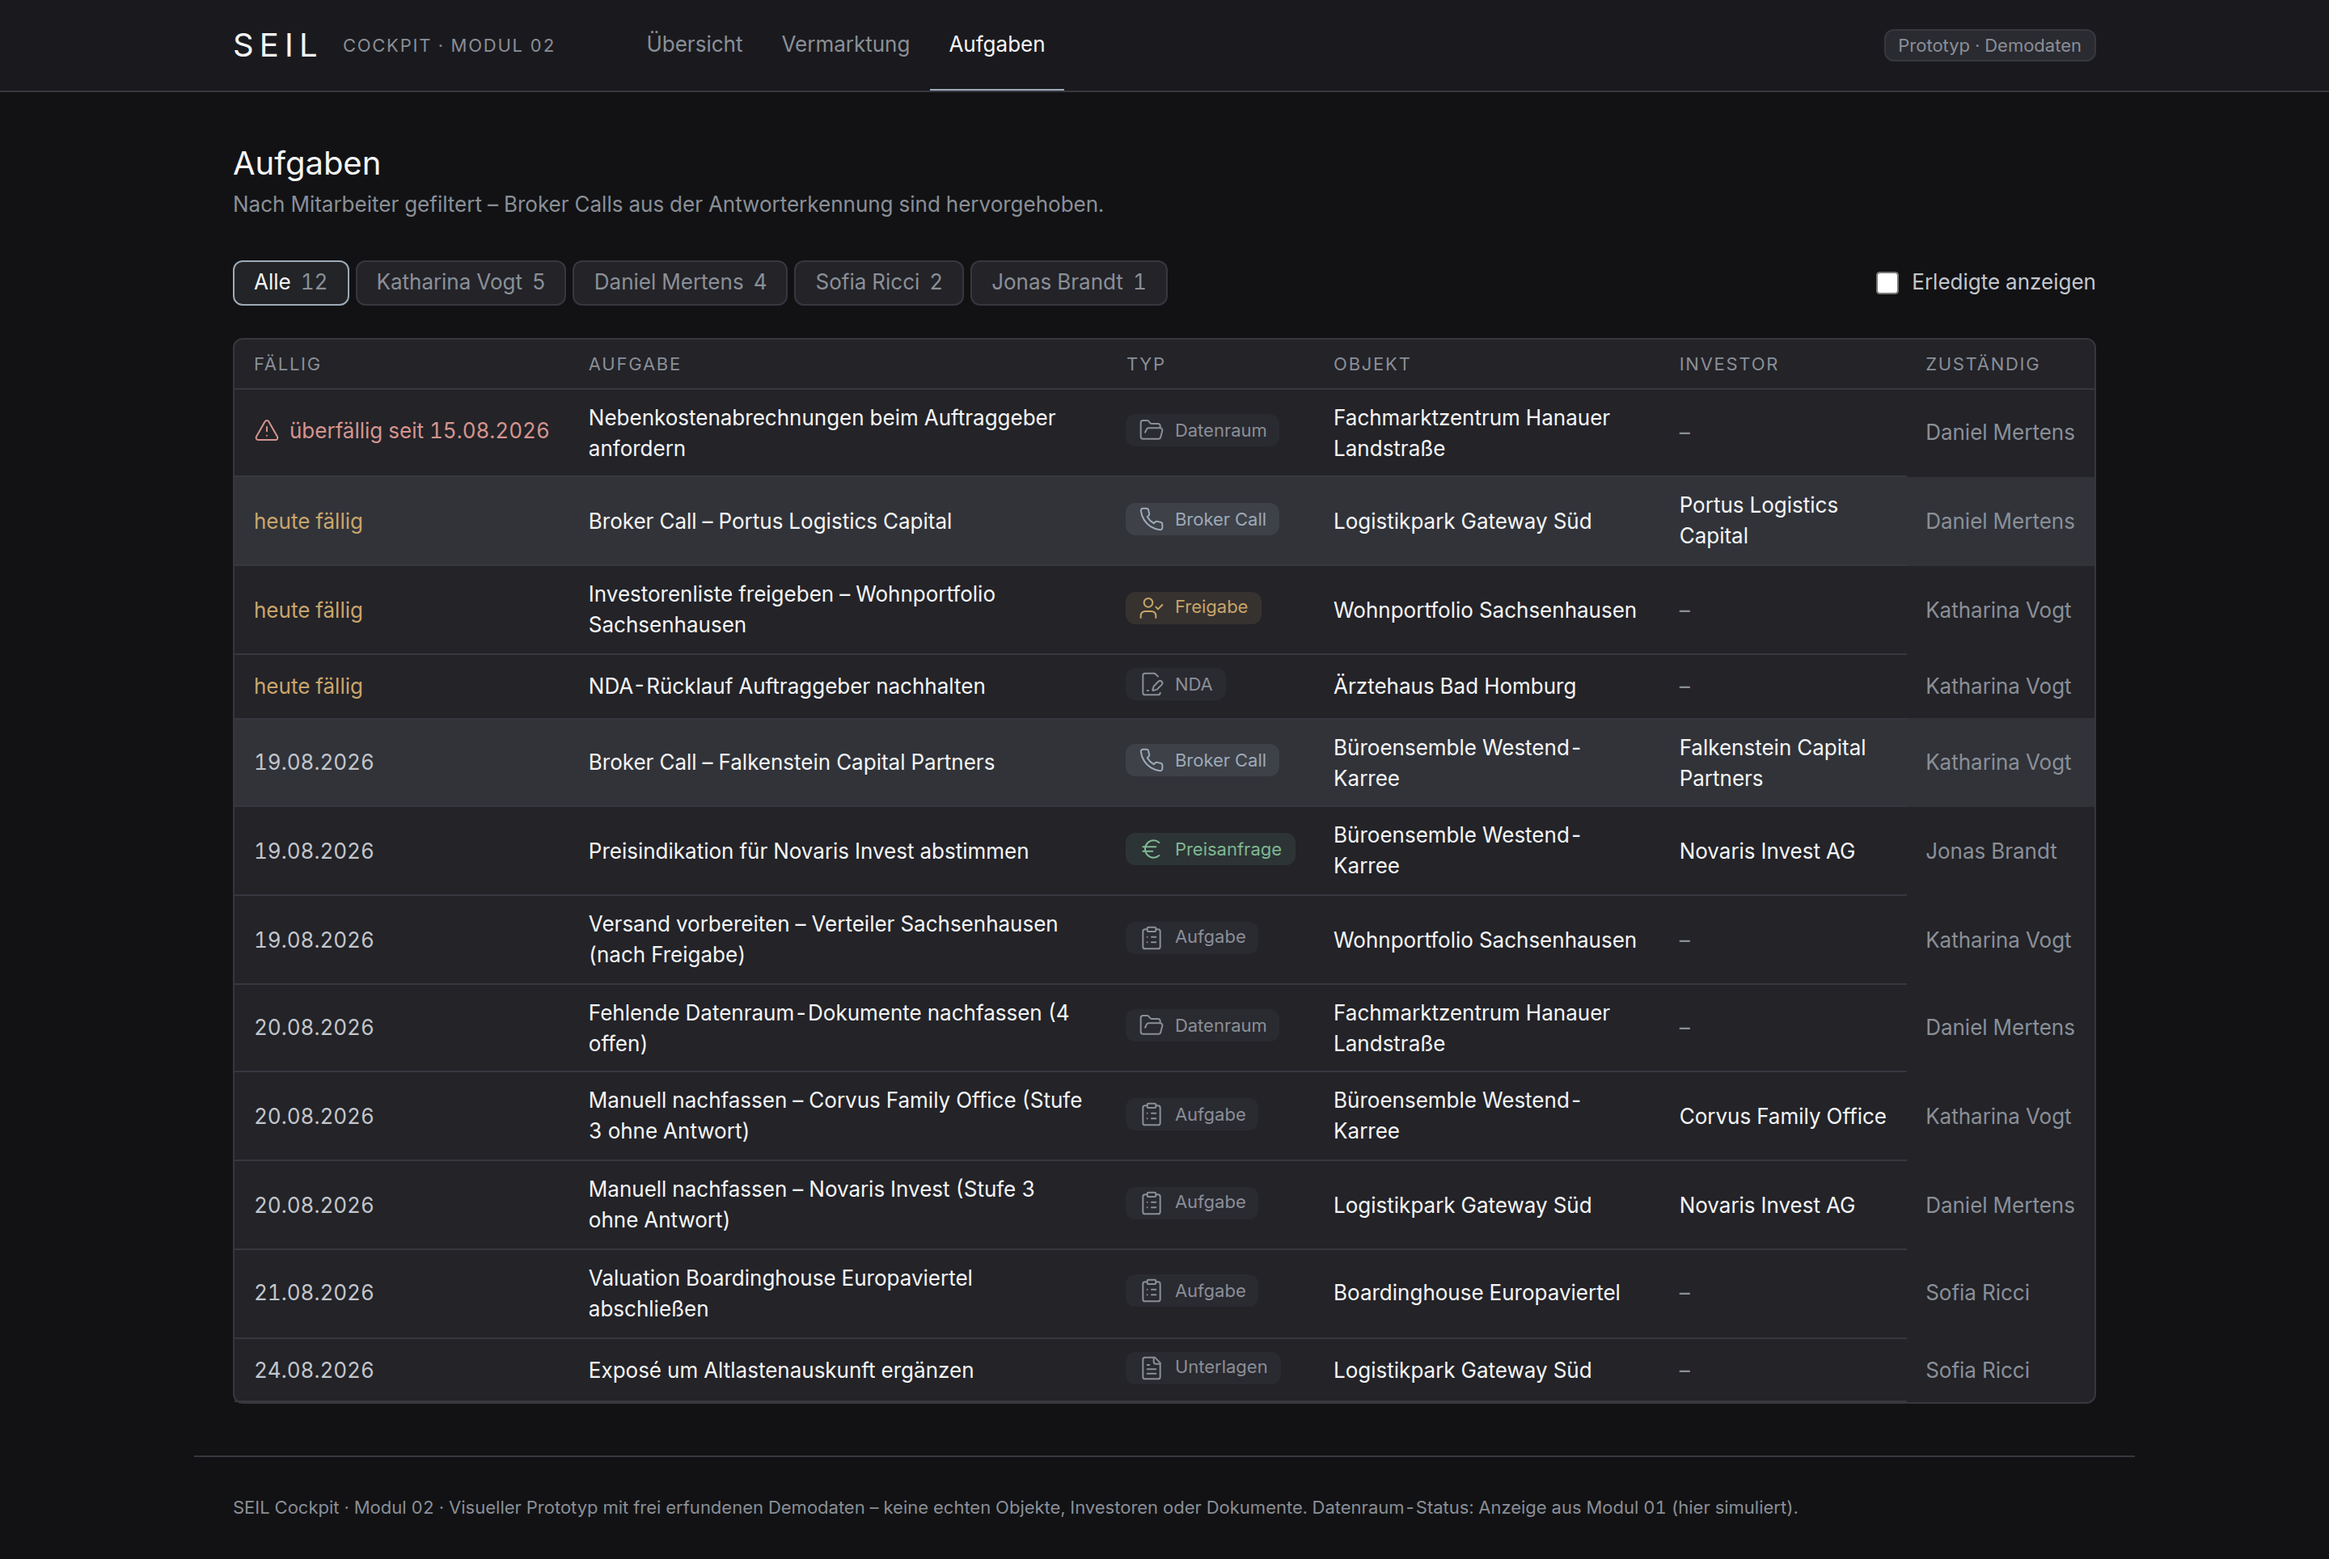
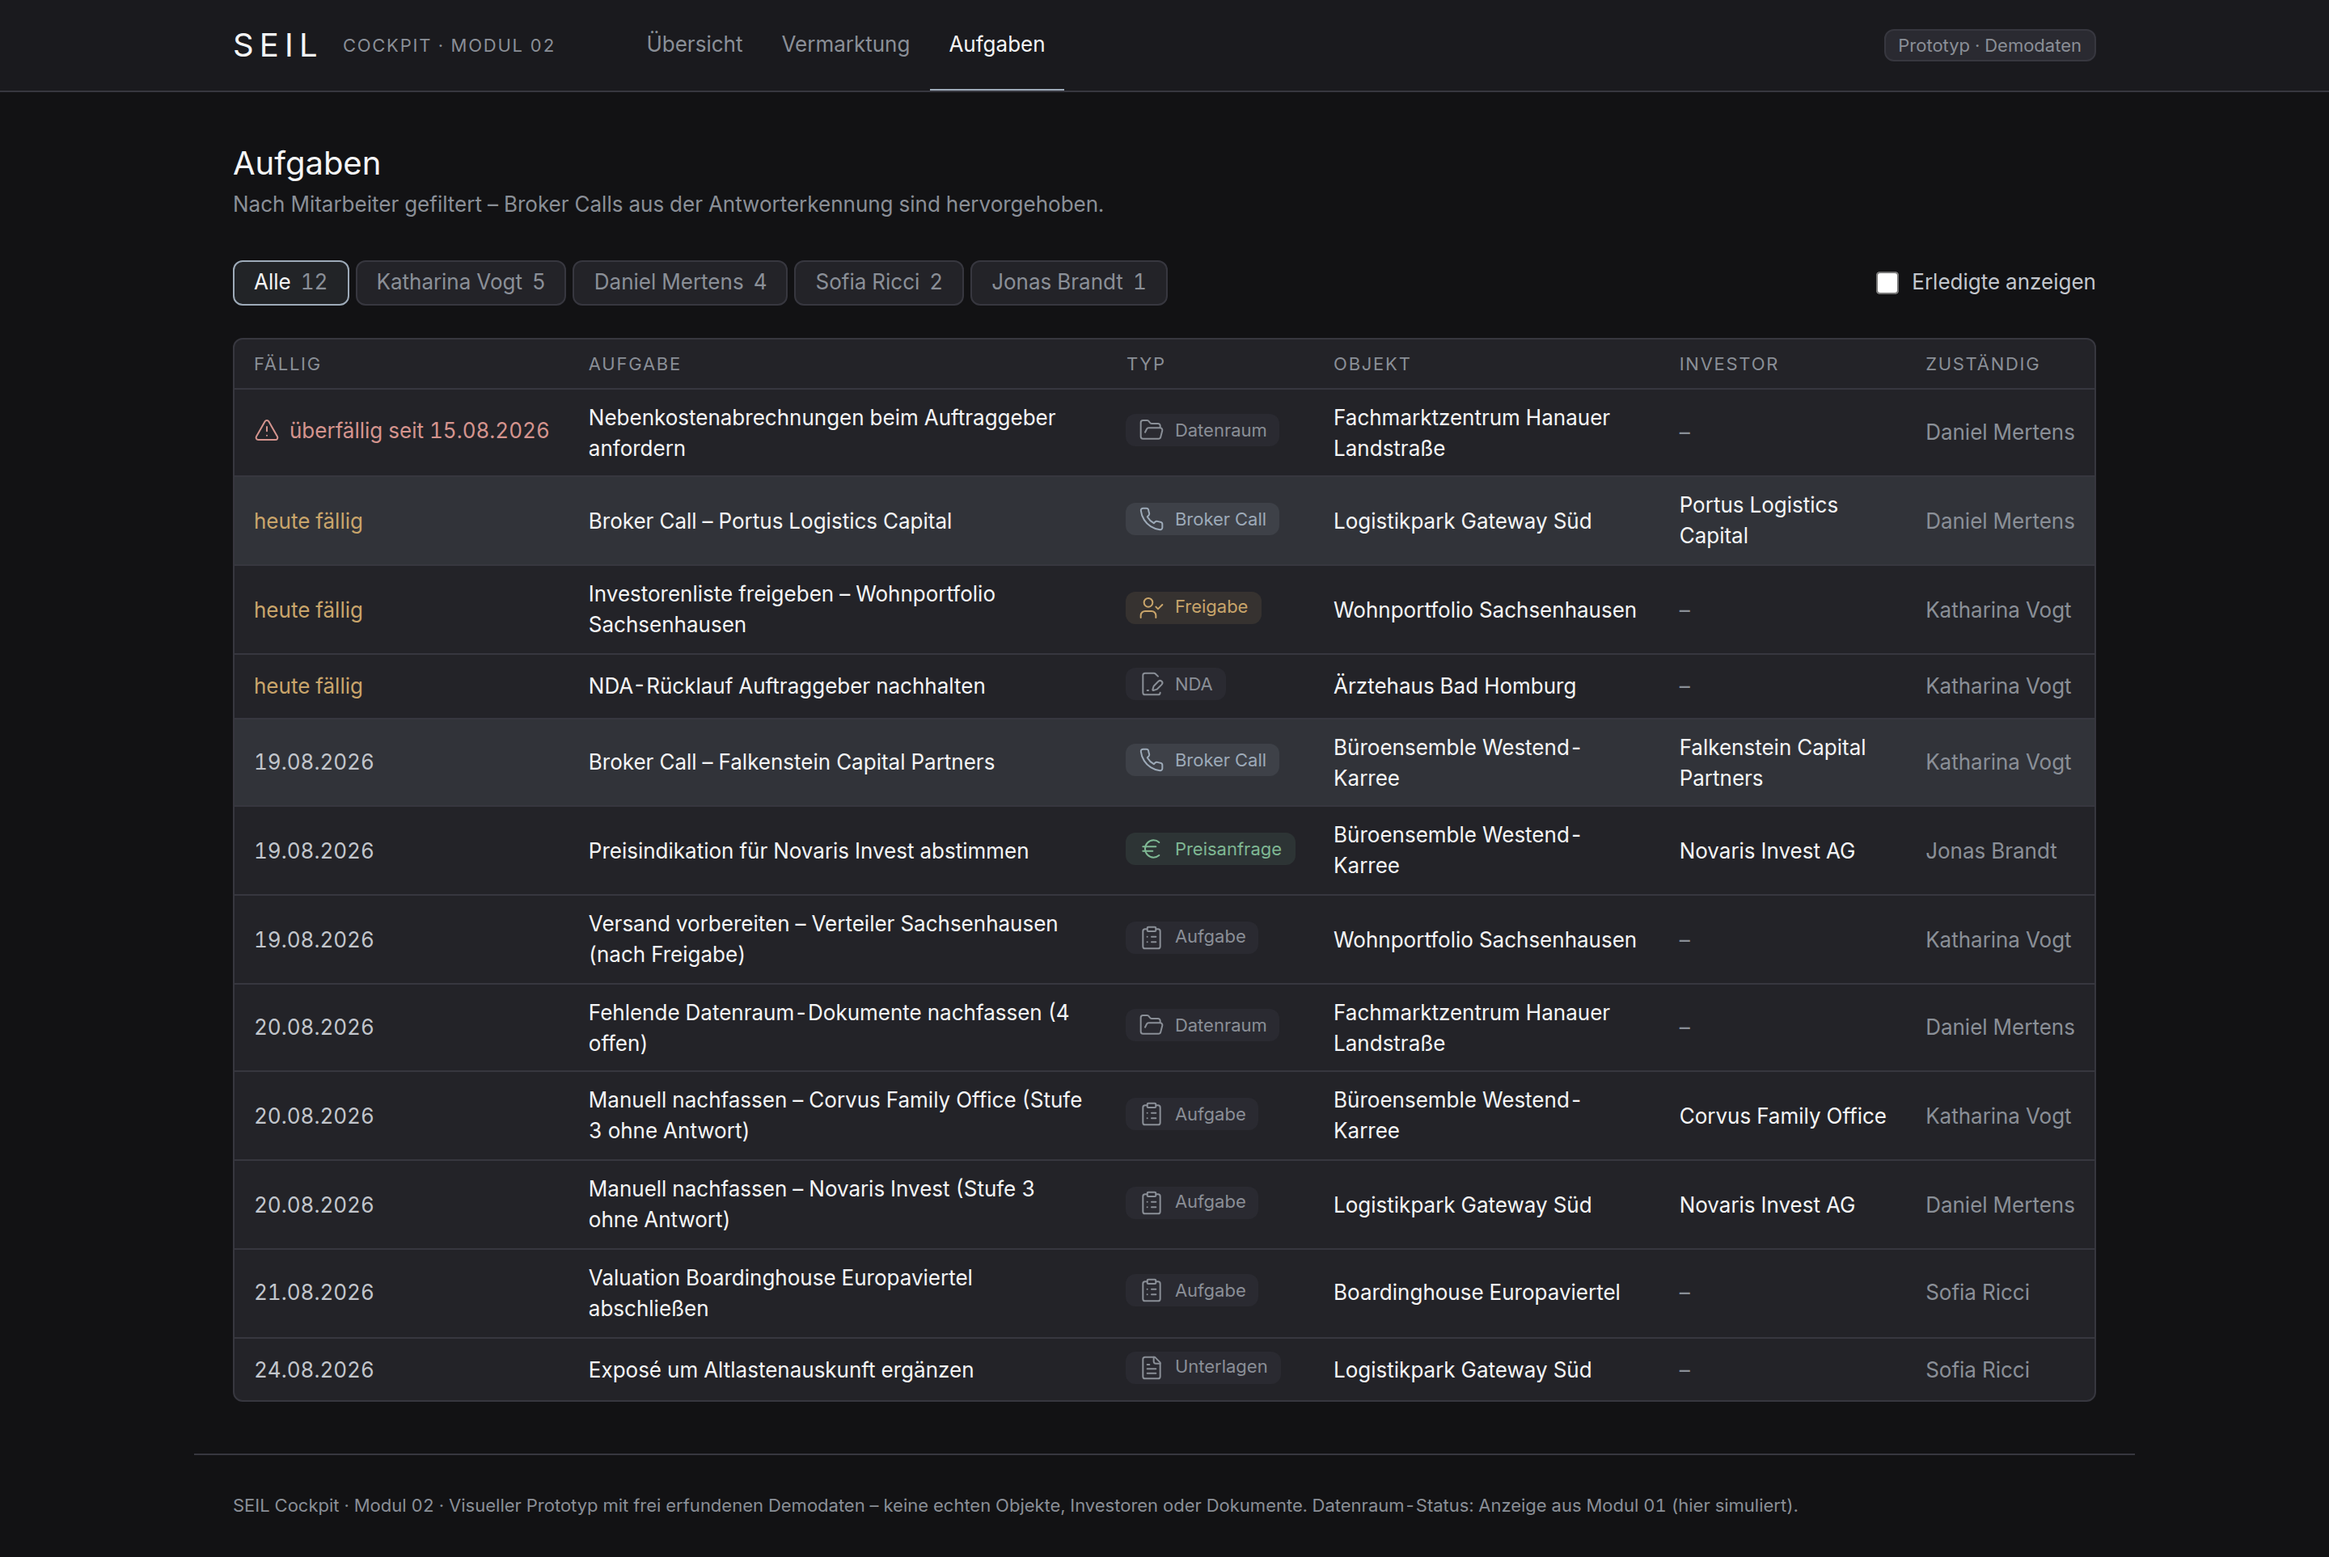
Finale Review eingearbeitet: Design-Regeltreue, Datenkonsistenz, Tabellenlinien
Tabellen-Trennlinien liefen wegen last:border-b-0 auf der Zelle nicht bis
zur letzten Spalte – Regel jetzt korrekt auf der letzten Zeile des TBody.
Prozessleiste markiert den aktiven Schritt zusätzlich zu Farbe über
Schriftgewicht, aria-current und sr-only-Text. Investor-Detail nutzt das
Badge-Primitive statt eines screen-eigenen Chips, der Vermarktungs-Hinweis
das Toast-Primitive.

Demodaten: Follow-up-Stufen am Westend-Karree für spätere Antworter auf
Stufe 1 vereinheitlicht (alle 7 Kontakte erhielten Stufe 1), fehlende
Feed-Einträge für sichtbare Stufe-2-Versände an Rheingold und Falkenstein
ergänzt. Spannung Angebot (KI-personalisierte Ansprache) vs. Kickoff
(Presound-Sammelmail an BCC) als Klärungspunkt in ANNAHMEN.md Punkt 25
dokumentiert und in der README-Abdeckungstabelle präzisiert. Screenshots
aller fünf Screens neu erzeugt.

Claude-Session: https://claude.ai/code/session_01BojgCmkhzmX3simacEqUtG

diff --git a/lib/mock-data.ts b/lib/mock-data.ts
@@ -427,17 +427,17 @@ export const investoren: Investor[] = [
 export const objektInvestorLinks: ObjektInvestorLink[] = [
   // Büroensemble Westend-Karree – Vermarktung weit fortgeschritten
   { objektId: "o1", investorId: "i1", status: "interesse", followUpStufe: 1, letzterKontakt: "2026-08-14", hinweis: "Broker Call vereinbart" },
-  { objektId: "o1", investorId: "i2", status: "preisanfrage", followUpStufe: 0, letzterKontakt: "2026-08-12", hinweis: "Indikation über Investment-Team" },
-  { objektId: "o1", investorId: "i3", status: "nda_unterzeichnet", followUpStufe: 0, letzterKontakt: "2026-08-17" },
+  { objektId: "o1", investorId: "i2", status: "preisanfrage", followUpStufe: 1, letzterKontakt: "2026-08-12", hinweis: "Indikation über Investment-Team" },
+  { objektId: "o1", investorId: "i3", status: "nda_unterzeichnet", followUpStufe: 1, letzterKontakt: "2026-08-17" },
   { objektId: "o1", investorId: "i4", status: "angeschrieben", followUpStufe: 2, letzterKontakt: "2026-08-17", naechstesFollowUp: "2026-08-19" },
   { objektId: "o1", investorId: "i8", status: "angeschrieben", followUpStufe: 3, letzterKontakt: "2026-08-16", hinweis: "Stufe 3 ohne Antwort – manuell nachfassen" },
   { objektId: "o1", investorId: "i9", status: "abgesagt", followUpStufe: 1, letzterKontakt: "2026-08-15", hinweis: "Kein Büro-Ankauf in 2026" },
-  { objektId: "o1", investorId: "i12", status: "datenraum_freigegeben", followUpStufe: 0, letzterKontakt: "2026-08-06" },
+  { objektId: "o1", investorId: "i12", status: "datenraum_freigegeben", followUpStufe: 1, letzterKontakt: "2026-08-06" },
 
   // Logistikpark Gateway Süd – Follow-up-Automatik läuft
   { objektId: "o2", investorId: "i1", status: "angeschrieben", followUpStufe: 2, letzterKontakt: "2026-08-17", naechstesFollowUp: "2026-08-19" },
   { objektId: "o2", investorId: "i2", status: "angeschrieben", followUpStufe: 3, letzterKontakt: "2026-08-16", hinweis: "Stufe 3 ohne Antwort – manuell nachfassen" },
-  { objektId: "o2", investorId: "i4", status: "angeschrieben", followUpStufe: 1, letzterKontakt: "2026-08-16", naechstesFollowUp: "2026-08-18" },
+  { objektId: "o2", investorId: "i4", status: "angeschrieben", followUpStufe: 2, letzterKontakt: "2026-08-16", naechstesFollowUp: "2026-08-18" },
   { objektId: "o2", investorId: "i7", status: "interesse", followUpStufe: 1, letzterKontakt: "2026-08-15", hinweis: "Broker Call vereinbart" },
 
   // Wohnportfolio Sachsenhausen – Liste abgeglichen, wartet auf Freigabe
@@ -501,12 +501,16 @@ export const aktivitaeten: Aktivitaet[] = [
   { id: "ak14", datum: "2026-08-16T08:00", typ: "system", quelle: "Automatik", text: "Follow-up Stufe 3 an Corvus Family Office versendet – maximale Stufe erreicht.", objektId: "o1", investorId: "i8" },
   { id: "ak15", datum: "2026-08-17T11:05", typ: "anruf", text: "Rückfragen von Hartmann & Cie. zur Mieter- & Flächenliste beantwortet.", objektId: "o1", investorId: "i3", mitarbeiterId: "m1" },
 
+  { id: "ak46", datum: "2026-08-17T08:00", typ: "system", quelle: "Automatik", text: "Follow-up Stufe 2 automatisch versendet an Rheingold Asset Management.", objektId: "o1", investorId: "i4" },
+
   // Logistikpark Gateway Süd (o2)
   { id: "ak16", datum: "2026-08-04T10:20", typ: "system", quelle: "Modul 01", text: "Checkliste aktualisiert: 11/12 Dokumente – Altlasten- & Baulastenauskunft ausstehend.", objektId: "o2" },
   { id: "ak17", datum: "2026-08-05T09:40", typ: "notiz", text: "Investorenliste freigegeben (4 Kontakte) – Versand ausgelöst.", objektId: "o2", mitarbeiterId: "m2" },
   { id: "ak18", datum: "2026-08-06T08:30", typ: "mail_ausgang", text: "Teaser Logistikpark an Verteiler versendet (4 Investoren).", objektId: "o2", mitarbeiterId: "m2" },
   { id: "ak19", datum: "2026-08-08T08:00", typ: "system", quelle: "Automatik", text: "Follow-up Stufe 1 automatisch versendet an 4 Kontakte ohne Rückmeldung.", objektId: "o2" },
   { id: "ak20", datum: "2026-08-16T08:00", typ: "system", quelle: "Automatik", text: "Follow-up Stufe 3 automatisch versendet an Novaris Invest – maximale Stufe erreicht.", objektId: "o2", investorId: "i2" },
+  { id: "ak47", datum: "2026-08-16T08:05", typ: "system", quelle: "Automatik", text: "Follow-up Stufe 2 automatisch versendet an Rheingold Asset Management.", objektId: "o2", investorId: "i4" },
+  { id: "ak48", datum: "2026-08-17T08:00", typ: "system", quelle: "Automatik", text: "Follow-up Stufe 2 automatisch versendet an Falkenstein Capital Partners.", objektId: "o2", investorId: "i1" },
   { id: "ak21", datum: "2026-08-15T14:22", typ: "mail_eingang", text: "Portus Logistics Capital meldet Interesse – Objektbesichtigung gewünscht.", objektId: "o2", investorId: "i7" },
   { id: "ak22", datum: "2026-08-15T14:23", typ: "system", quelle: "Automatik", text: "Antwort erkannt: Interesse – Aufgabe „Broker Call“ für Daniel Mertens erstellt.", objektId: "o2", investorId: "i7" },
   { id: "ak23", datum: "2026-08-17T16:40", typ: "anruf", text: "Statusupdate an Gateway Industrial: 4 Kontakte angeschrieben, 1 Interessent.", objektId: "o2", auftraggeberId: "a3", mitarbeiterId: "m2" },

diff --git a/app/investoren/[id]/page.tsx b/app/investoren/[id]/page.tsx
@@ -32,14 +32,6 @@ import {
   KontaktStatusBadge,
 } from "@/components/cockpit";
 
-function Chip({ children }: { children: React.ReactNode }) {
-  return (
-    <span className="inline-flex rounded-seil border border-seil-line bg-seil-card-alt px-2 py-0.5 text-kicker text-seil-body">
-      {children}
-    </span>
-  );
-}
-
 export default async function InvestorDetail({ params }: { params: Promise<{ id: string }> }) {
   const { id } = await params;
   const investor = investorVon(id);
@@ -82,7 +74,9 @@ export default async function InvestorDetail({ params }: { params: Promise<{ id:
               </dt>
               <dd className="mt-2 flex flex-wrap gap-1.5">
                 {investor.assetklassen.map((a) => (
-                  <Chip key={a}>{a}</Chip>
+                  <Badge key={a} tone="neutral">
+                    {a}
+                  </Badge>
                 ))}
               </dd>
             </div>
@@ -92,7 +86,9 @@ export default async function InvestorDetail({ params }: { params: Promise<{ id:
               </dt>
               <dd className="mt-2 flex flex-wrap gap-1.5">
                 {investor.regionen.map((r) => (
-                  <Chip key={r}>{r}</Chip>
+                  <Badge key={r} tone="neutral">
+                    {r}
+                  </Badge>
                 ))}
               </dd>
             </div>

diff --git a/components/prozessleiste.tsx b/components/prozessleiste.tsx
@@ -50,6 +50,7 @@ function SchrittChip({
     <div
       className={`flex min-w-0 items-center gap-2 rounded-seil border px-2 py-2 ${rahmen}`}
       title={lang}
+      aria-current={status === "aktiv" ? "step" : undefined}
     >
       <span className={`flex w-4 shrink-0 justify-center text-kicker ${marke}`} aria-hidden>
         {status === "abgeschlossen" ? (
@@ -60,7 +61,17 @@ function SchrittChip({
           nr
         )}
       </span>
-      <span className={`truncate text-kicker ${text}`}>{kurz}</span>
+      {/* Status haengt nie an der Farbe allein: aktiv traegt zusaetzlich Gewicht + sr-Text. */}
+      <span className={`truncate text-kicker ${text} ${status === "aktiv" ? "font-medium" : ""}`}>
+        {kurz}
+        <span className="sr-only">
+          {status === "aktiv"
+            ? " – aktueller Schritt"
+            : status === "abgeschlossen"
+              ? " – abgeschlossen"
+              : " – offen"}
+        </span>
+      </span>
     </div>
   );
 }

diff --git a/app/vermarktung/page.tsx b/app/vermarktung/page.tsx
@@ -1,4 +1,4 @@
-import { TriangleAlert } from "lucide-react";
+import { Info, TriangleAlert } from "lucide-react";
 import {
   fmtDatum,
   fmtTicket,
@@ -20,6 +20,7 @@ import {
   TD,
   TH,
   THead,
+  Toast,
   TR,
 } from "@/components/ui";
 import {
@@ -75,10 +76,12 @@ export default async function VermarktungSeite({
       </div>
 
       {nichtVerfuegbar ? (
-        <p className="mb-5 rounded-seil border border-seil-line bg-seil-card-alt px-3 py-2 text-seil-muted">
-          Für „{nichtVerfuegbar.name}“ ist die Vermarktung noch nicht gestartet – angezeigt wird
-          stattdessen {objekt.name}.
-        </p>
+        <div className="mb-5">
+          <Toast tone="neutral" icon={Info}>
+            Für „{nichtVerfuegbar.name}“ ist die Vermarktung noch nicht gestartet – angezeigt wird
+            stattdessen {objekt.name}.
+          </Toast>
+        </div>
       ) : null}
 
       <FreigabeKarte

diff --git a/components/ui/table.tsx b/components/ui/table.tsx
@@ -21,7 +21,8 @@ export function THead({ children }: { children: React.ReactNode }) {
 }
 
 export function TBody({ children }: { children: React.ReactNode }) {
-  return <tbody>{children}</tbody>;
+  // Die letzte Zeile schliesst mit der Karte ab - ohne doppelte Linie.
+  return <tbody className="[&>tr:last-child>td]:border-b-0">{children}</tbody>;
 }
 
 export function TH({
@@ -69,7 +70,7 @@ export function TD({
 }: React.TdHTMLAttributes<HTMLTableCellElement> & { numeric?: boolean }) {
   return (
     <td
-      className={`h-row border-b border-seil-line px-3 py-2 align-middle last:border-b-0 ${
+      className={`h-row border-b border-seil-line px-3 py-2 align-middle ${
         numeric ? "text-right whitespace-nowrap" : ""
       } ${className}`}
       {...rest}

diff --git a/ANNAHMEN.md b/ANNAHMEN.md
@@ -99,8 +99,13 @@ simuliert**; die echte Anbindung ist Umsetzungsteil von Modul 02.
     Import-Screen würde die Fünf-Screen-Grenze sprengen.
 24. **Status-Reports via Telegram:** als Statuszeile auf der Übersicht angedeutet
     („heute 08:00 versendet“). Inhalt, Frequenz und Empfängerkreis sind offen.
-25. **Presound-Mail an BCC-Verteiler:** Benennung aus dem Kickoff übernommen
-    (Freigabe-Karte und Automatik-Zeile der Vermarktung).
+25. **Presound-Mail an BCC-Verteiler vs. KI-personalisierte Ansprache:** Das
+    Angebot nennt eine „KI-personalisierte Ansprache mit Freigabe-Workflow“, im
+    Kickoff wurde der heutige Ist-Prozess als Presound-Mail an einen
+    BCC-Verteiler beschrieben. Der Prototyp zeigt den Versand als Sammelmail
+    (Benennung aus dem Kickoff) – ob die Ansprache künftig je Investor
+    KI-personalisiert erzeugt und einzeln freigegeben wird, ist zu klären; das
+    verändert Freigabe-Granularität und Datenmodell.
 26. **Distressed Assets:** Im Kickoff als Sonderfall mit typisch unvollständigen
     Unterlagen genannt – im Prototyp als Merkmal am Fachmarktzentrum (7/12
     Dokumente) dargestellt. Ob Distressed-Fälle eine eigene Prozessvariante

diff --git a/README.md b/README.md
@@ -26,7 +26,7 @@ Tabellen anklicken) – es gibt keine Listen-Screens über die fünf Screens hin
 
 | Leistungsbaustein | Im Prototyp sichtbar als |
 |---|---|
-| KI-personalisierte Ansprache mit Freigabe-Workflow | Vermarktung: Freigabe-Karte (Human-in-the-Loop) über der Investorenliste |
+| KI-personalisierte Ansprache mit Freigabe-Workflow | Freigabe-Karte (Human-in-the-Loop); Versand im Prototyp als Presound-Sammelmail – Personalisierung je Investor ist Klärungspunkt (ANNAHMEN.md, Punkt 25) |
 | Szenariobasierte Follow-up-Logik (Response, Price Inquiry, kein Rücklauf) | Antwortstatus je Kontakt, Follow-up-Stufen 1–3, „manuell nachfassen“ nach Stufe 3 |
 | Antwort-Erkennung und Zuordnung | Aktivitäten „Antwort erkannt: …“ + automatisch erzeugte Aufgaben (Broker Call, Investment-Team) |
 | Zentrales Dashboard: Phasen, Investoren, Objekte, Datenraum-Status | Die fünf Screens; Prozessleiste über beide Seiten; Datenraum aus Modul 01 |
